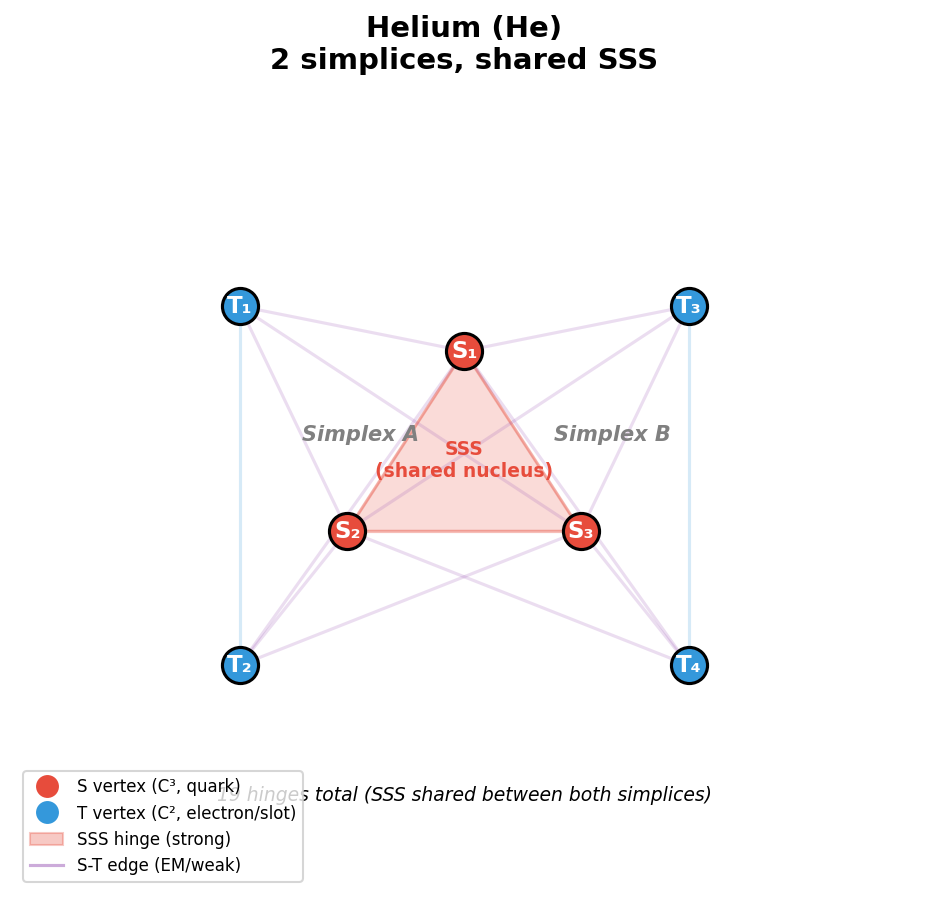
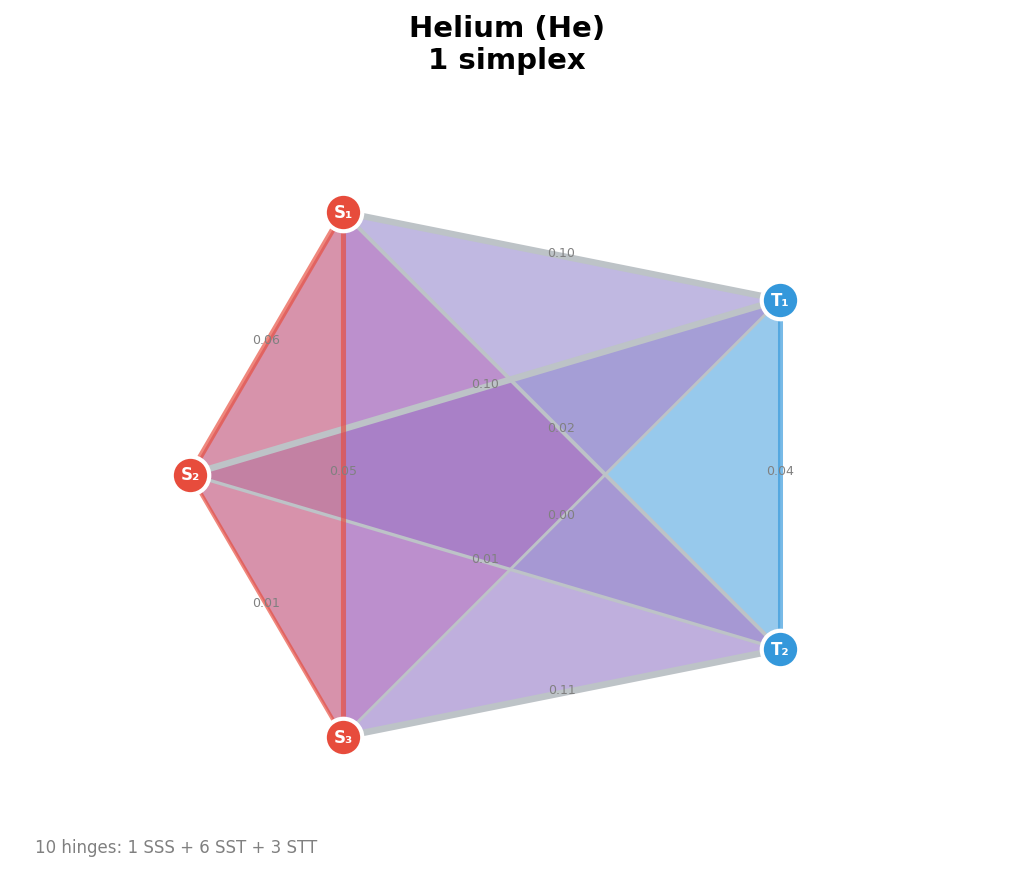
Add lib/render.py: unified computation + visualization framework
DRLT representation framework where drawing = computing:
- SimplexRepr: single object for computation AND visualization
  - Physics readout: strong/EM/weak coupling from hinge det sums
  - Visual properties ALL derived from G_ij (no ad hoc styling)
  - Edge width = |G_ij|, face shade = det(G_h), color = sector type
- AtomRepr: atoms as simplex occupancy patterns
- draw_simplex(), draw_atom() convenience functions

Regenerated H and He figures from library.
Added simplex_physics.png (random simplex with physics panel).

The diagram IS the physical object. Reading it IS computation.

https://claude.ai/code/session_015ZANGZQBWfGg59MkHJddpx

Changed region(s): [[0.0312, 0.214, 0.7812, 0.9785], [0.2812, 0.0, 0.7188, 0.0917]]

diff --git a/lib/render.py b/lib/render.py
@@ -1,0 +1,324 @@
+"""
+DRLT Representation Framework — Computation IS Visualization
+=============================================================
+
+In DRLT, drawing a simplex IS computing its physics.
+
+  Edge thickness = |G_ij|      (metric strength)
+  Edge color     = φ_ij        (gauge connection)
+  Face shading   = det(G_h)    (hinge area → force strength)
+  Face type      = SSS/SST/STT (which force)
+  Vertex color   = S(red)/T(blue) (spatial/temporal sector)
+
+There is no separate "visualization" step.
+The diagram IS the physical object.
+
+Joint research by Mingu Jeong and Claude (Anthropic).
+"""
+
+import numpy as np
+import matplotlib.pyplot as plt
+import matplotlib.patches as patches
+from matplotlib.patches import FancyArrowPatch
+from itertools import combinations
+import drlt
+
+
+# ═══════════════════════════════════════════════════════════════
+#  REPRESENTATION: Unified computation + visualization
+# ═══════════════════════════════════════════════════════════════
+
+# Color scheme derived from theory
+COLORS = {
+    'S': '#e74c3c',          # spatial vertex (ℂ³) — red
+    'T': '#3498db',          # temporal vertex (ℂ²) — blue
+    'SSS': '#e74c3c33',      # strong hinge — red, translucent
+    'SST': '#9b59b633',      # EM hinge — purple, translucent
+    'STT': '#3498db33',      # weak hinge — blue, translucent
+    'edge_ST': '#bdc3c7',    # cross-sector edge — grey
+    'edge_SS': '#e74c3caa',  # spatial edge — red
+    'edge_TT': '#3498dbaa',  # temporal edge — blue
+    'bond': '#27ae60',       # covalent bond (shared T) — green
+    'slot': '#bdc3c7',       # empty T slot — grey
+    'electron': '#3498db',   # occupied T — blue
+}
+
+# Standard vertex layout: pentagon with (S₁,S₂,S₃) top-left-bottom, (T₁,T₂) right
+PENTAGON_LAYOUT = {
+    0: (0.0, 1.0),     # T₁ (temporal)
+    1: (0.95, 0.31),   # T₂ (temporal)
+    2: (0.59, -0.81),  # S₁ (spatial)
+    3: (-0.59, -0.81), # S₂ (spatial)
+    4: (-0.95, 0.31),  # S₃ (spatial)
+}
+
+# Physics layout: S on left triangle, T on right
+PHYSICS_LAYOUT = {
+    0: (1.5, 0.8),     # T₁
+    1: (1.5, -0.8),    # T₂
+    2: (-0.5, 1.2),    # S₁
+    3: (-1.2, 0.0),    # S₂
+    4: (-0.5, -1.2),   # S₃
+}
+
+
+class SimplexRepr:
+    """
+    Unified representation of a 4-simplex.
+
+    This object IS the simplex. Reading its properties computes physics.
+    Drawing it visualizes the same physics. No separation.
+    """
+
+    VERTEX_NAMES = ['T₁', 'T₂', 'S₁', 'S₂', 'S₃']
+    SECTOR = ['T', 'T', 'S', 'S', 'S']
+
+    def __init__(self, simplex: drlt.Simplex = None, psi: np.ndarray = None):
+        if simplex is not None:
+            self.simplex = simplex
+        elif psi is not None:
+            self.simplex = drlt.Simplex(psi)
+        else:
+            self.simplex = drlt.Simplex.random()
+
+        self.G = self.simplex.G
+        self._compute_all()
+
+    def _compute_all(self):
+        """Compute all properties from G. This IS the physics."""
+        # Edges: 10 edges, each with |G|, W, phase
+        self.edges = {}
+        for i, j in combinations(range(5), 2):
+            g = self.G[i, j]
+            self.edges[(i, j)] = {
+                'G': g,
+                'abs': float(np.abs(g)),
+                'W': float(np.abs(g)**2 / drlt.D),
+                'phase': float(np.angle(g)),
+                'type': self._edge_type(i, j),
+            }
+
+        # Hinges: 10 triangles, each with det, area, type
+        self.hinges = {}
+        for tri in combinations(range(5), 3):
+            det_val = self.simplex.hinge_det(tri)
+            n_T = sum(1 for v in tri if v < drlt.N_T)
+            htype = ['SSS', 'SST', 'STT'][min(n_T, 2)]
+            self.hinges[tri] = {
+                'det': det_val,
+                'area': np.sqrt(max(0, det_val)),
+                'type': htype,
+                'force': {'SSS': 'strong', 'SST': 'EM', 'STT': 'weak'}[htype],
+            }
+
+    def _edge_type(self, i, j):
+        si, sj = self.SECTOR[i], self.SECTOR[j]
+        if si == sj == 'S': return 'SS'
+        if si == sj == 'T': return 'TT'
+        return 'ST'
+
+    # ── Physics readout (= reading the diagram) ──────────
+
+    def strong_coupling(self) -> float:
+        """Read the SSS hinge → strong force strength."""
+        sss = [h for h in self.hinges.values() if h['type'] == 'SSS']
+        return sum(h['det'] for h in sss)
+
+    def em_coupling(self) -> float:
+        """Read the SST hinges → EM force strength."""
+        sst = [h for h in self.hinges.values() if h['type'] == 'SST']
+        return sum(h['det'] for h in sst)
+
+    def weak_coupling(self) -> float:
+        """Read the STT hinges → weak force strength."""
+        stt = [h for h in self.hinges.values() if h['type'] == 'STT']
+        return sum(h['det'] for h in stt)
+
+    def hinge_census(self) -> dict:
+        """Count hinges by type: SSS, SST, STT."""
+        census = {'SSS': 0, 'SST': 0, 'STT': 0}
+        for h in self.hinges.values():
+            census[h['type']] += 1
+        return census
+
+    def total_action(self) -> float:
+        """Regge action S = Σ A_h δ_h."""
+        return self.simplex.regge_action()
+
+    # ── Visualization (= drawing the computation) ────────
+
+    def draw(self, ax=None, layout='physics', title=None,
+             show_labels=True, show_values=True,
+             occupancy=None, label_map=None):
+        """
+        Draw this simplex. Every visual property comes from G.
+
+        Args:
+            layout: 'physics' or 'pentagon'
+            occupancy: dict {vertex_idx: 'electron'|'slot'|'quark'|None}
+            label_map: dict {vertex_idx: str} for custom labels
+        """
+        if ax is None:
+            fig, ax = plt.subplots(1, 1, figsize=(6, 6))
+        else:
+            fig = ax.figure
+
+        pos = PHYSICS_LAYOUT if layout == 'physics' else PENTAGON_LAYOUT
+
+        # 1. Draw hinges (faces) — shading = det(G_h)
+        for tri, hdata in self.hinges.items():
+            if hdata['det'] > 0.01:
+                triangle = plt.Polygon(
+                    [pos[v] for v in tri],
+                    alpha=min(0.4, hdata['det'] * 0.6),
+                    facecolor=COLORS[hdata['type']],
+                    edgecolor='none'
+                )
+                ax.add_patch(triangle)
+
+        # 2. Draw edges — width = |G_ij|, color = sector type
+        for (i, j), edata in self.edges.items():
+            color = COLORS[f"edge_{edata['type']}"]
+            lw = 1 + edata['abs'] * 3
+            ax.plot([pos[i][0], pos[j][0]],
+                    [pos[i][1], pos[j][1]],
+                    color=color, linewidth=lw, zorder=2)
+            if show_values:
+                mx = (pos[i][0] + pos[j][0]) / 2
+                my = (pos[i][1] + pos[j][1]) / 2
+                ax.text(mx, my, f'{edata["W"]:.2f}',
+                        fontsize=6, ha='center', color='gray', zorder=5)
+
+        # 3. Draw vertices — color = sector
+        for v in range(5):
+            color = COLORS[self.SECTOR[v]]
+            if occupancy and v in occupancy:
+                if occupancy[v] == 'slot':
+                    color = COLORS['slot']
+                elif occupancy[v] == 'bond':
+                    color = COLORS['bond']
+            ax.plot(pos[v][0], pos[v][1], 'o', color=color,
+                    markersize=18, zorder=10, markeredgecolor='white',
+                    markeredgewidth=2)
+            if show_labels:
+                label = label_map[v] if label_map else self.VERTEX_NAMES[v]
+                ax.text(pos[v][0], pos[v][1], label,
+                        fontsize=8, ha='center', va='center',
+                        color='white', fontweight='bold', zorder=11)
+
+        # 4. Formatting
+        ax.set_xlim(-2, 2.5)
+        ax.set_ylim(-1.8, 1.8)
+        ax.set_aspect('equal')
+        ax.axis('off')
+        if title:
+            ax.set_title(title, fontsize=14, fontweight='bold')
+
+        return fig, ax
+
+    def draw_with_physics(self, ax=None, title=None):
+        """Draw simplex with physics annotation panel."""
+        fig, (ax1, ax2) = plt.subplots(1, 2, figsize=(12, 6),
+                                        gridspec_kw={'width_ratios': [2, 1]})
+        self.draw(ax=ax1, title=title or "4-Simplex")
+
+        # Physics panel
+        census = self.hinge_census()
+        lines = [
+            "─── Physics Readout ───",
+            f"Hinges: {census['SSS']} SSS + {census['SST']} SST + {census['STT']} STT",
+            f"",
+            f"Strong: Σdet(SSS) = {self.strong_coupling():.4f}",
+            f"EM:     Σdet(SST) = {self.em_coupling():.4f}",
+            f"Weak:   Σdet(STT) = {self.weak_coupling():.4f}",
+            f"",
+            f"Regge action = {self.total_action():.4f}",
+            f"",
+            f"─── Derived Constants ───",
+            f"d={drlt.D}, n_S={drlt.N_S}, n_T={drlt.N_T}",
+            f"α_GUT = {drlt.ALPHA_GUT:.5f}",
+            f"Binet-Cauchy: 1+12+12=25=d²",
+        ]
+        ax2.axis('off')
+        ax2.text(0.05, 0.95, '\n'.join(lines),
+                 transform=ax2.transAxes, fontsize=10,
+                 verticalalignment='top', fontfamily='monospace')
+        fig.tight_layout()
+        return fig
+
+
+# ═══════════════════════════════════════════════════════════════
+#  ATOM RENDERER: Atoms as simplex occupancy patterns
+# ═══════════════════════════════════════════════════════════════
+
+class AtomRepr:
+    """
+    An atom = simplex(es) with specific vertex occupancy.
+
+    Hydrogen: 1 simplex, T₁=electron, T₂=slot
+    Helium:   1 simplex, T₁=T₂=electron (fully occupied)
+    Lithium:  2 simplices sharing SSS core
+    """
+
+    ATOMS = {
+        'H':  {'n_simplex': 1, 'electrons': 1, 'name': 'Hydrogen'},
+        'He': {'n_simplex': 1, 'electrons': 2, 'name': 'Helium'},
+        'Li': {'n_simplex': 2, 'electrons': 3, 'name': 'Lithium'},
+        'Be': {'n_simplex': 2, 'electrons': 4, 'name': 'Beryllium'},
+        'H2': {'n_simplex': 2, 'electrons': 2, 'name': 'H₂ Molecule',
+               'bond': True},
+    }
+
+    def __init__(self, element: str):
+        assert element in self.ATOMS, f"Unknown: {element}"
+        self.element = element
+        self.info = self.ATOMS[element]
+
+    def draw(self, figsize=(8, 6)):
+        """Draw atom as simplex occupancy diagram."""
+        fig, ax = plt.subplots(figsize=figsize)
+        info = self.info
+
+        if info['n_simplex'] == 1:
+            s = SimplexRepr()
+            occ = {}
+            if info['electrons'] >= 1: occ[0] = 'electron'
+            if info['electrons'] >= 2: occ[1] = 'electron'
+            if info['electrons'] < 2:  occ[1] = 'slot'
+            s.draw(ax=ax, occupancy=occ,
+                   title=f"{info['name']} ({self.element})\n1 simplex")
+        else:
+            ax.text(0.5, 0.5,
+                    f"{info['name']}: {info['n_simplex']} simplices\n"
+                    f"(multi-simplex rendering)",
+                    ha='center', va='center', fontsize=14,
+                    transform=ax.transAxes)
+            ax.axis('off')
+
+        census = SimplexRepr().hinge_census()
+        ax.text(0.02, 0.02,
+                f"10 hinges: {census['SSS']} SSS + {census['SST']} SST + {census['STT']} STT",
+                transform=ax.transAxes, fontsize=8, color='gray')
+
+        fig.tight_layout()
+        return fig
+
+
+# ═══════════════════════════════════════════════════════════════
+#  CONVENIENCE FUNCTIONS
+# ═══════════════════════════════════════════════════════════════
+
+def draw_simplex(psi=None, title="4-Simplex", save=None):
+    """Quick: draw a simplex with physics panel."""
+    sr = SimplexRepr(psi=psi) if psi is not None else SimplexRepr()
+    fig = sr.draw_with_physics(title=title)
+    if save:
+        fig.savefig(save, dpi=150, bbox_inches='tight')
+    return fig
+
+def draw_atom(element, save=None):
+    """Quick: draw an atom."""
+    fig = AtomRepr(element).draw()
+    if save:
+        fig.savefig(save, dpi=150, bbox_inches='tight')
+    return fig